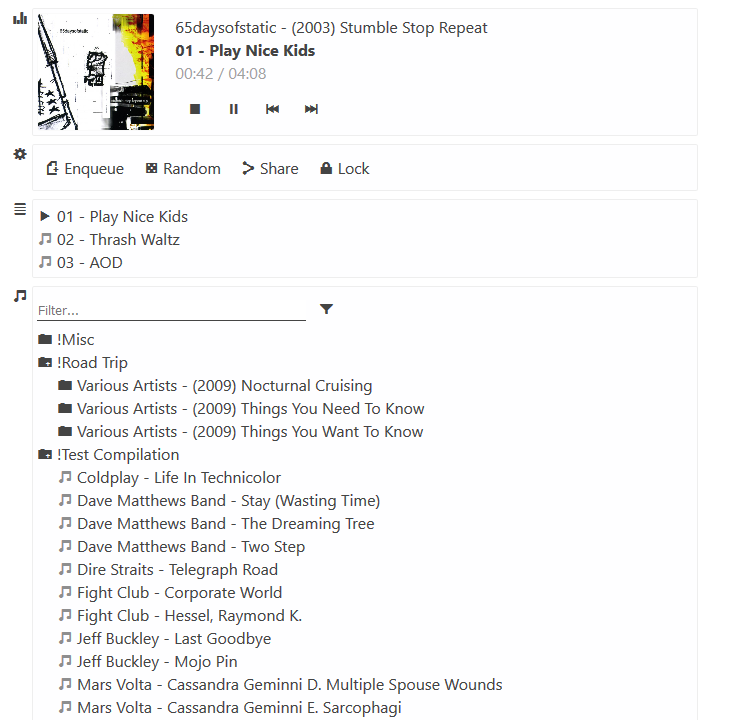
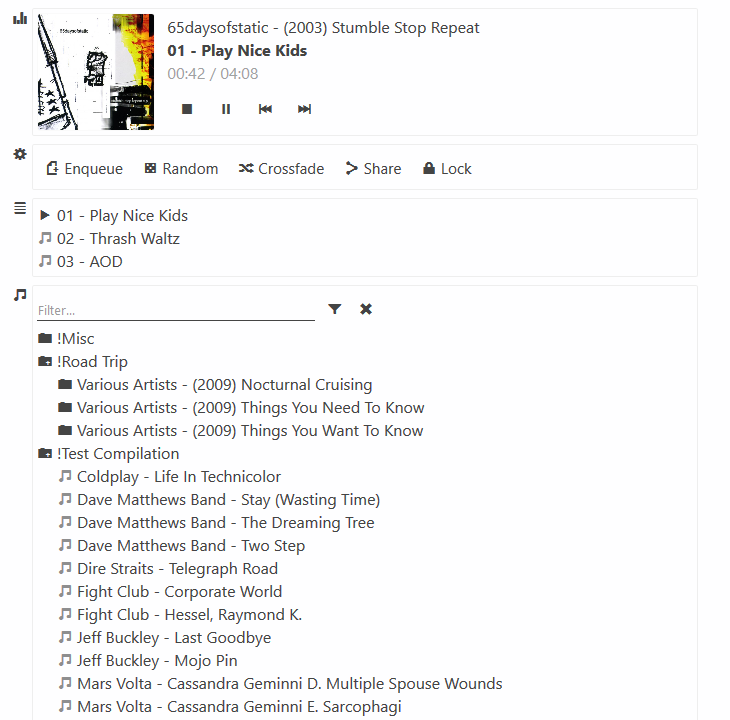
1.5

diff --git a/README.md b/README.md
@@ -29,6 +29,7 @@ An elegant HTML5 web folder player for parties and/or private music collections.
 ## List of hotkeys
 Hotkey | Command
 :---: |---
+Z | Zoom cover image
 O | Stop playback (time to 0:00)
 P or Space | Play/pause
 \[ | Play previous
@@ -37,6 +38,7 @@ P or Space | Play/pause
 \+ | Jump forward 5s
 E | Toggle enqueue
 R | Toggle random
+X | Toggle crossfade
 S | Toggle share dialog
 L | Lock/unlock playlist and playback controls
 C | Clear playlist
@@ -49,7 +51,7 @@ Esc | Reset library filter
 1. Put all `music.*` files into a folder on your web server
 2. Have zip present on your web server
 3. Optionally rename `music.htm` to `index.html`
-4. Edit `music.php` so that the variable `$dir` corresponds with your music folder
+4. Edit `music.php` so that the variable `$root` corresponds with your music folder
 5. Edit the variables at the top of `music.js`
 
 ## Credits
